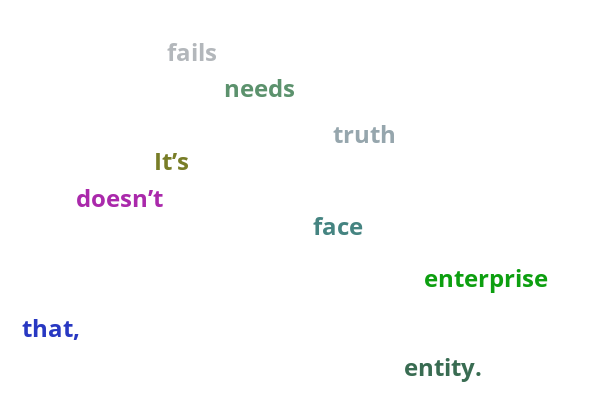
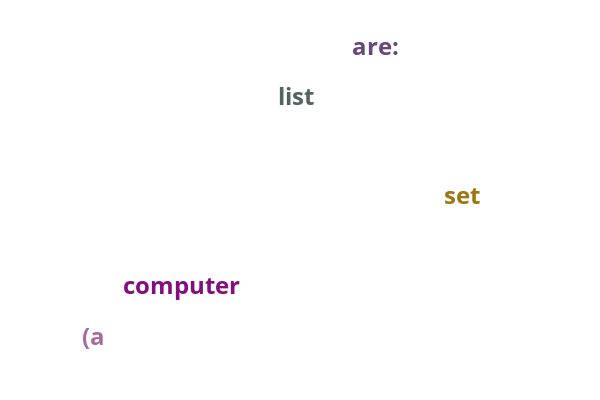
String Performance Processing Improved

diff --git a/Example/main.py b/Example/main.py
@@ -1,51 +1,10 @@
 from pywordcloud import WordCloudGenrator
 
-test_txt = """Every enterprise needs to innovate. It doesn’t matter whether you’re are a profit-seeking business, a nonprofit organization, or a government entity. The simple truth is that every business model fails eventually, because conditions change over time. We have to manage not for stability, but for disruption — that, or face irrelevance.
-
-There is no shortage of advice on how to go about it. In fact, there is far too much advice. Design thinkers will tell you to focus on the end user, but Harvard’s Clayton Christensen says that listening to customers too much is how good businesses fail. Then there’s open innovation, lean startups, and on and on it goes.
-
-The truth is that there is no one path to innovation. Everybody has to find their own way. Just because someone had success with one strategy doesn’t mean it’s right for the problem you need to solve. So the best advice is to gather as many tools for your toolbox as you can.
-
-Here are four facts about innovation that you’ll rarely hear, though they’re critically important.
-
-1. Your Success Often Works Against You
-For the most part, managers aren’t responsible for innovation. As the title implies, they’re responsible for managing operations. That involves hiring and empowering strong employees, optimizing practices and processes, and reducing errors and mistakes. Managers aren’t generally trying to build a better mousetrap; they’re trying to run things smoothly and efficiently.
-
-It’s easy for someone to stand up on stage at a conference and paint operational managers as dimwits with their heads in the sand. But managing a quality operation is a tough job that requires talent, dedication, and skill. So unless you’ve actually done the job, don’t be too quick to judge.
-
-However, managers do need to realize that there is a fundamental trade-off between innovating and optimizing operations. Running efficient operations requires standardization and control to yield predictable outcomes. Innovation, on the other hand requires experimentation. It means trying a lot of new things, most of which are going to fail.
-
-That’s why success so often leads to failure. What makes you successful in one competitive environment will likely be a hindrance when things change. So you need to find a healthy balance between squeezing everything you can out of the present, while still leaving room to create and build for the future.
-
-2. Look For A Hair-On-Fire Use Case
-Good operational managers learn to identify large addressable markets. Bigger markets help you scale your business, drive revenues, and allow you invest back into operations to create more efficiency. Greater efficiencies lead to fatter profit margins, which allow you to invest even more in improvements, creating a virtuous cycle.
-
-Yet, when you’re trying to do something truly new and different, trying to scale too fast can kill your business before it’s even gotten started. A truly revolutionary product is unpredictable because, by its very nature, it’s not well understood. Charging boldly into the unknown is a sure way to run into unanticipated problems that are expensive to fix at scale.
-
-Innovation is never a single event. It is a long process of discovery, engineering, and transformation.
-A better strategy is to identify a hair-on-fire use case — someone who needs a problem fixed so badly that they are willing to overlook the inevitable glitches. They will help you identify shortcomings early and correct them. Once you get things ironed out, you can begin to scale for more ordinary use cases.
-
-For example, developing a self-driving car is a risky proposition with a dizzying amount of variables you can’t account for. However, a remote mine in Western Australia, where drivers are scarce and traffic nonexistent, is an ideal place to test and improve the technology. In a similar vein, Google Glass failed utterly as a mass product, but is getting a second life as an industrial tool. Sometimes it’s better to build for the few than the many.
-
-3. Start With the Monkey
-When I work with executives, they often have a breakthrough idea that excites them. They begin to tell me what a great opportunity it is and how they are perfectly positioned to capitalize on it. However, when I dig deeper, there’s always a major barrier to making it happen. When I ask about that, they shut down.
-
-Make no mistake. Innovation isn’t about ideas, it’s about solving problems. The truth is that nobody cares about your ideas, they care about the problems you can solve for them. The reason most people can’t innovate isn’t because they don’t have ideas, but because they lack the perseverance needed to stick with a really tough problem until it’s cracked.
-
-At Google X, the tech giant’s “moonshot factory,” the mantra is #MonkeyFirst. The idea is that if you want to get a monkey to recite Shakespeare on a pedestal, you start by training the monkey, not building the pedestal. Because training the monkey is the hard part. Anyone can build a pedestal.
-
-The problem is that most people start with the pedestal, because it’s what they know. And by building it, they can show early progress against a timeline. Unfortunately, building a pedestal gets you nowhere. Unless you can actually train the monkey, working on the pedestal is wasted effort.
-
-4. Sometimes the World Isn’t Ready Yet
-When Alexander Fleming first published his discovery of penicillin, no one really noticed. When Xerox executives first got a look at the Alto — the machine that would become the model for the Macintosh seven years later — they didn’t see what the big deal was. When Jim Allison first showed pharmaceutical executives his idea for cancer immunotherapy, not one would invest in it.
-
-We always think the next big thing will be obvious, but in truth, it often starts out looking like nothing at all. When something truly has the power to change the world, the world isn’t ready for it. It needs to build advocacy, gain traction among a particular industry or field, and combine with other innovations before it can make an impact.
-
-But no one ever tells you that. We’re conditioned to think that someone like Steve Jobs or Elon Musk stands up on stage, announces that the world has changed, and everybody just goes along. It never really happens that way because innovation is never a single event. It is a long process of discovery, engineering, and transformation that usually takes about 30 years.
-
-“Don’t worry about people stealing your ideas,” said the computing pioneer Howard Aiken. “If your ideas are any good, you’ll have to ram them down people’s throats.” Never were truer words spoken. Great innovators aren’t just people with ideas. They’re people willing to stick it out and take the shots from people who ridicule them. Eventually, if they’re lucky, they really do change the world.
-
-"""
+test_txt = """A computer is a programmable machine. The two principal
+                characteristics of a computer are: It responds to a
+                specific set of instructions in a well-defined manner
+                and it can execute a prerecorded list of instructions
+                (a program)."""
 
 word_cloud = WordCloudGenrator(input_txt=test_txt)
 

diff --git a/pywordcloud/words_extractor.py b/pywordcloud/words_extractor.py
@@ -1,3 +1,4 @@
+import re
 import os
 import nltk
 
@@ -35,7 +36,24 @@ class WordsExtractor:
             representing a word.
         """
 
-        return input_txt.split()
+        return input_txt.lower().split()
+
+    def _clean_in(self, tokenized_txt):
+
+        """This function removes clean wornd
+            discard non words andreturn remaining words as list.
+
+        Parameters
+        ----------
+        tokenized_txt : iterable of tokenized strings.
+        Returns
+        -------
+        tokenized_txt text : list of cleaned words strings
+             each string representing a word.
+        """
+
+        tokenized_txt = [re.sub('\s+', ' ', x).strip() for x in tokenized_txt if x]
+        return [x for x in tokenized_txt if x]
 
     def remove_stop_words(self, tokenized_txt):
 
@@ -50,6 +68,8 @@ class WordsExtractor:
         cleaned text : list of cleaned non stop words strings
              each string representing a word.
         """
+
+        tokenized_txt = self._clean_in(tokenized_txt)
 
         with open(STOPWORDS, "r") as stop_words_file:
             stop_words = stop_words_file.read()
